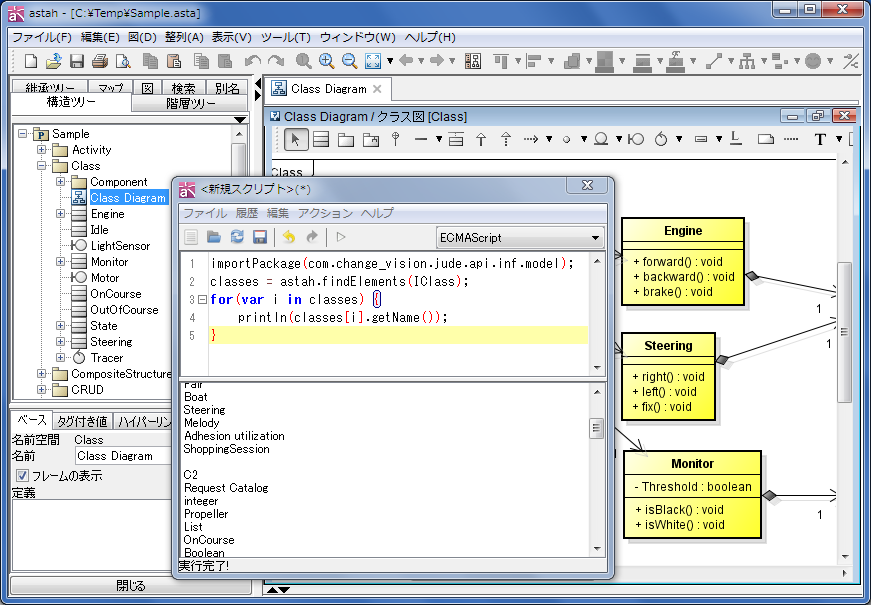
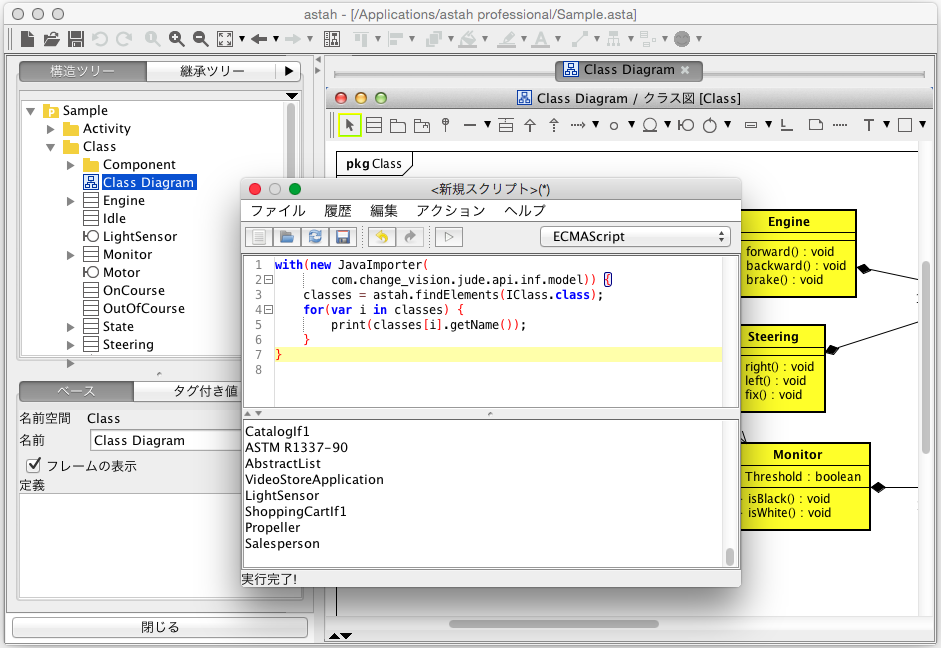
refs #5856 Scriptプラグインのサンプルで、importPackageの書き方をJava8でも動くように書き換える
- READMEとスクリーンショットを更新

diff --git a/README_ja.md b/README_ja.md
@@ -4,7 +4,7 @@ Astah Script Plugin
 
 バージョン
 ------------
-1.0.1
+1.0.2
 
 対象エディション
 ------------------
@@ -21,7 +21,7 @@ astah*: http://astah.change-vision.com/ja/
 ------------
 (※[astah* GSNのみ、インストール方法が異なります](http://astah-users.change-vision.com/ja/modules/xhnewbb/viewtopic.php?topic_id=1776))
 
-1. [Download](http://astah.change-vision.com/plugins/astah_script_plugin/1.0.1.html)から zipファイルをダウンロードし、任意のフォルダへ展開します。
+1. [Download](http://astah.change-vision.com/plugins/astah_script_plugin/1.0.2.html)から zipファイルをダウンロードし、任意のフォルダへ展開します。
 
     例) Astah Professional, Windows: `$USER_HOME/.astah/professional/plugins/`,  `C:¥Program Files¥astah-professional¥plugins¥`
     Astah Professional, Mac OS X: `/Applications/astah professional/plugins/`
@@ -52,7 +52,7 @@ astah*: http://astah.change-vision.com/ja/
 
 サンプルスクリプト
 ---------------------
-`sample_scripts` フォルダには、合計14ケのJavaScriptサンプルファイルが格納されています。
+`sample_scripts` フォルダには、合計15ケのJavaScriptサンプルファイルが格納されています。
 
  * addSetterGetter.js
  * addStereotypeToSelectedModel.js
@@ -67,14 +67,17 @@ astah*: http://astah.change-vision.com/ja/
  * printPackageAndClassInfo.js
  * printPresentationProperties.js
  * searchAndEdit.js
+ * searchMessagesWithoutOperation.js
  * useJavaGUI.js
 
 例) JavaScript: `printClasses.js`
 ```javascript
-importPackage(com.change_vision.jude.api.inf.model);
-var classes = astah.findElements(IClass);
-for(var i in classes) {
-    println(classes[i].getName());
+with(new JavaImporter(
+        com.change_vision.jude.api.inf.model)) {
+    classes = astah.findElements(IClass.class);
+    for(var i in classes) {
+        print(classes[i].getName());
+    }
 }
 ```
  * 定義済みの変数を使えます。
@@ -116,7 +119,7 @@ OSGi JSR223準拠の他のスクリプト言語を使用できます。
 
 License
 ------------
-Copyright 2012 Change Vision, Inc.
+Copyright 2015 Change Vision, Inc.
 
 Licensed under the Apache License, Version 2.0 (the "License");
 you may not use this work except in compliance with the License.

diff --git a/README.md b/README.md
@@ -4,7 +4,7 @@ Astah Script Plugin
 
 Version
 ------------
-1.0.1
+1.0.2
 
 Available for
 ------------
@@ -20,7 +20,7 @@ You are able to edit and run with ECMAScript(Javascript).
 
 How to install
 ------------
-1. Deploy the jar file you downloaded from [Astah Script Plugin](http://astah.change-vision.com/plugins/astah_script_plugin/1.0.1.html), in the **"plugins"** folder...
+1. Deploy the jar file you downloaded from [Astah Script Plugin](http://astah.change-vision.com/plugins/astah_script_plugin/1.0.2.html), in the **"plugins"** folder...
 
     e.g.) for Professional edition: 
     `$USER_HOME/.astah/professional/plugins/`
@@ -47,10 +47,12 @@ Script example
 ------------
 JavaScript:
 ```javascript
-importPackage(com.change_vision.jude.api.inf.model);
-classes = astah.findElements(IClass);
-for(var i in classes) {
-    println(classes[i].getName());
+with(new JavaImporter(
+        com.change_vision.jude.api.inf.model)) {
+    classes = astah.findElements(IClass.class);
+    for(var i in classes) {
+        print(classes[i].getName());
+    }
 }
 ```
  * Other examples are in the `sample_scripts` directory.
@@ -93,7 +95,7 @@ You are able to use other script languages which support OSGi JSR223(experimenta
 
 License
 ------------
-Copyright 2012 Change Vision, Inc.
+Copyright 2015 Change Vision, Inc.
 
 Licensed under the Apache License, Version 2.0 (the "License");
 you may not use this work except in compliance with the License.
